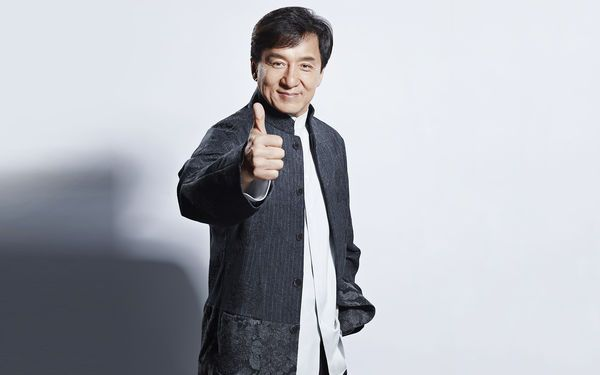
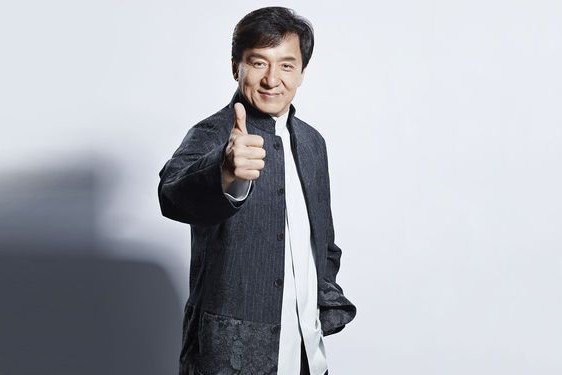
图片修改

diff --git a/chenglong.html b/chenglong.html
@@ -124,9 +124,12 @@
        成龙图片
    </h2>
    <div>
-   <img src="image/11.jpg" alt="图片"></div>
-   <div> <img src="image/33.jpg" alt="图片"></div>
-  <div><img src="image/44.jpg" alt="图片"></div> 
+       <a href="image/11.jpg" target="_black"><img  width="300px" src="image/11.jpg" alt="图片"></a>
+   </div>
+   <div> 
+       <a href="image/33.jpg" target="_black"><img width="300px" src="image/33.jpg" alt="图片"></a></div>
+  <div>
+      <a href="image/44.jpg" target="_black"><img width="300px" src="image/44.jpg" alt="图片"></a></div> 
   <h2 id="jinxiang">金像奖</h2>
   <table>
    <thead>
